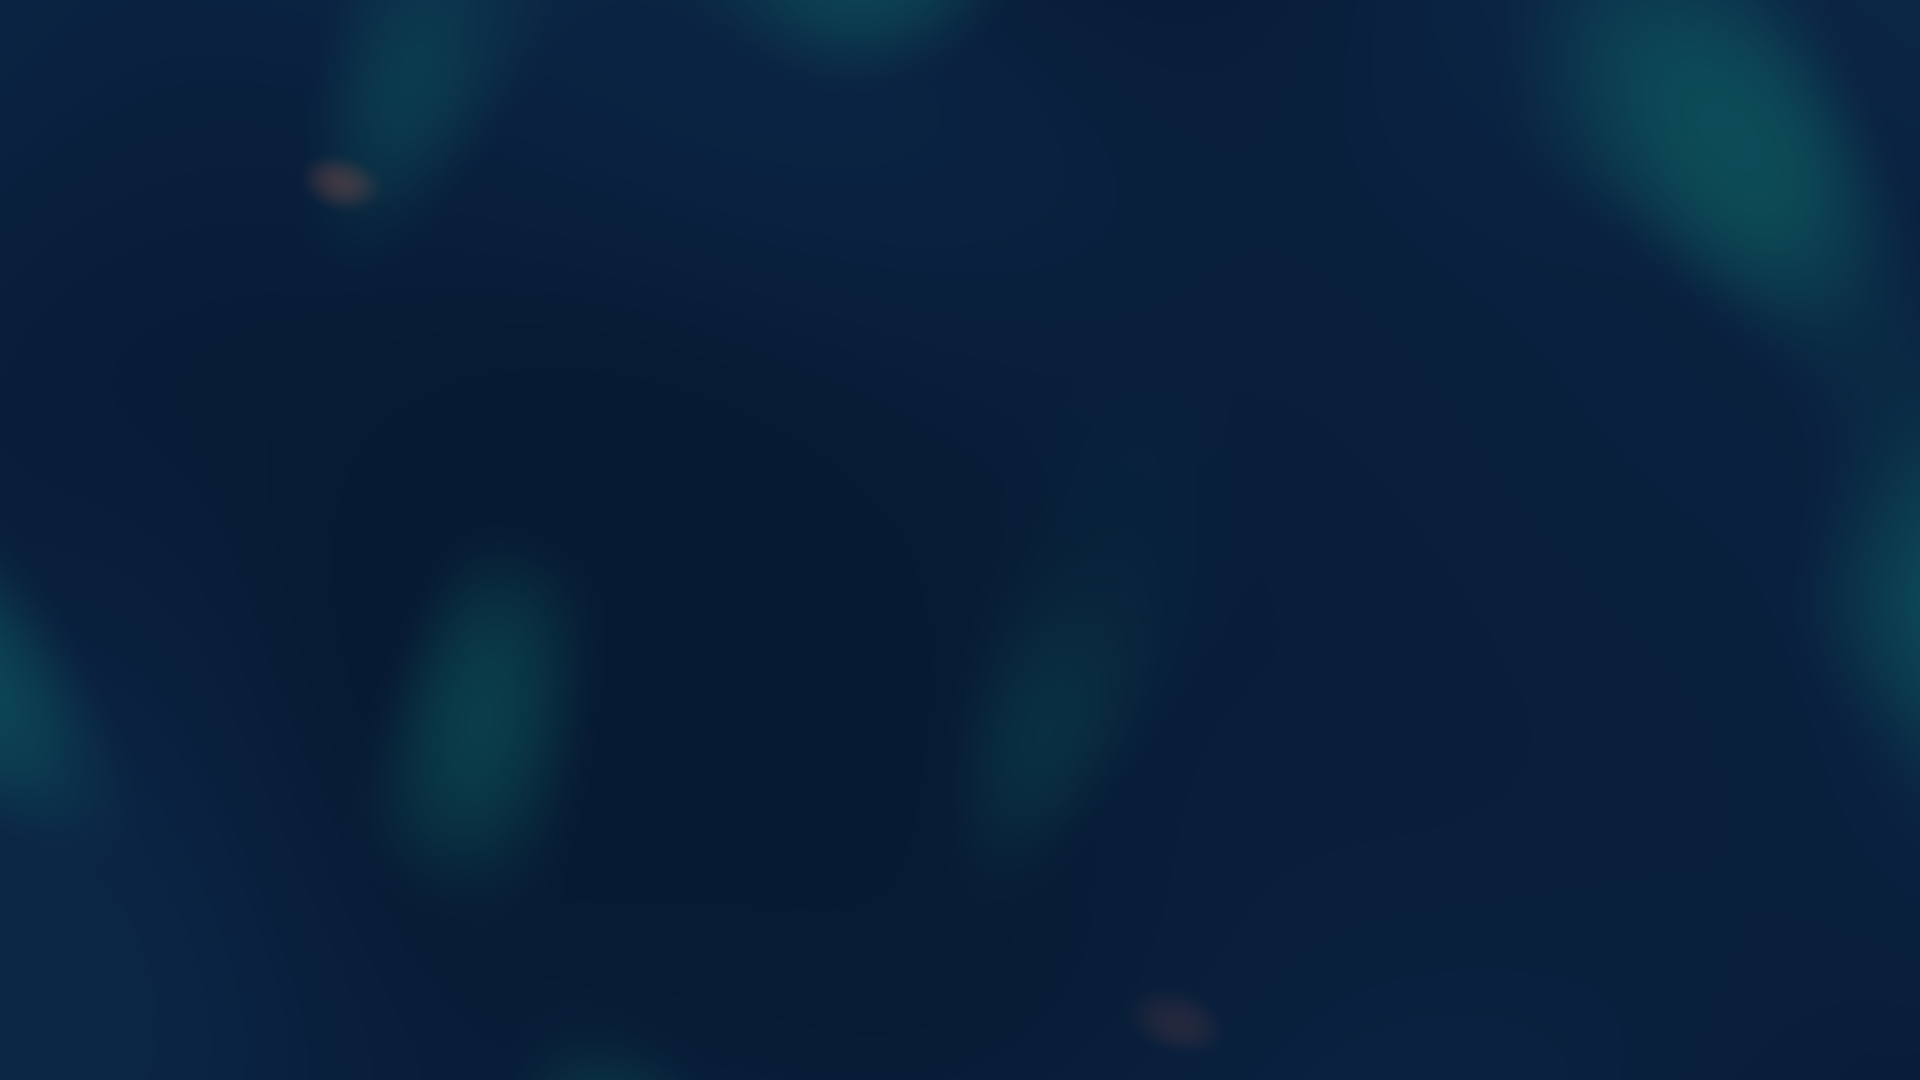
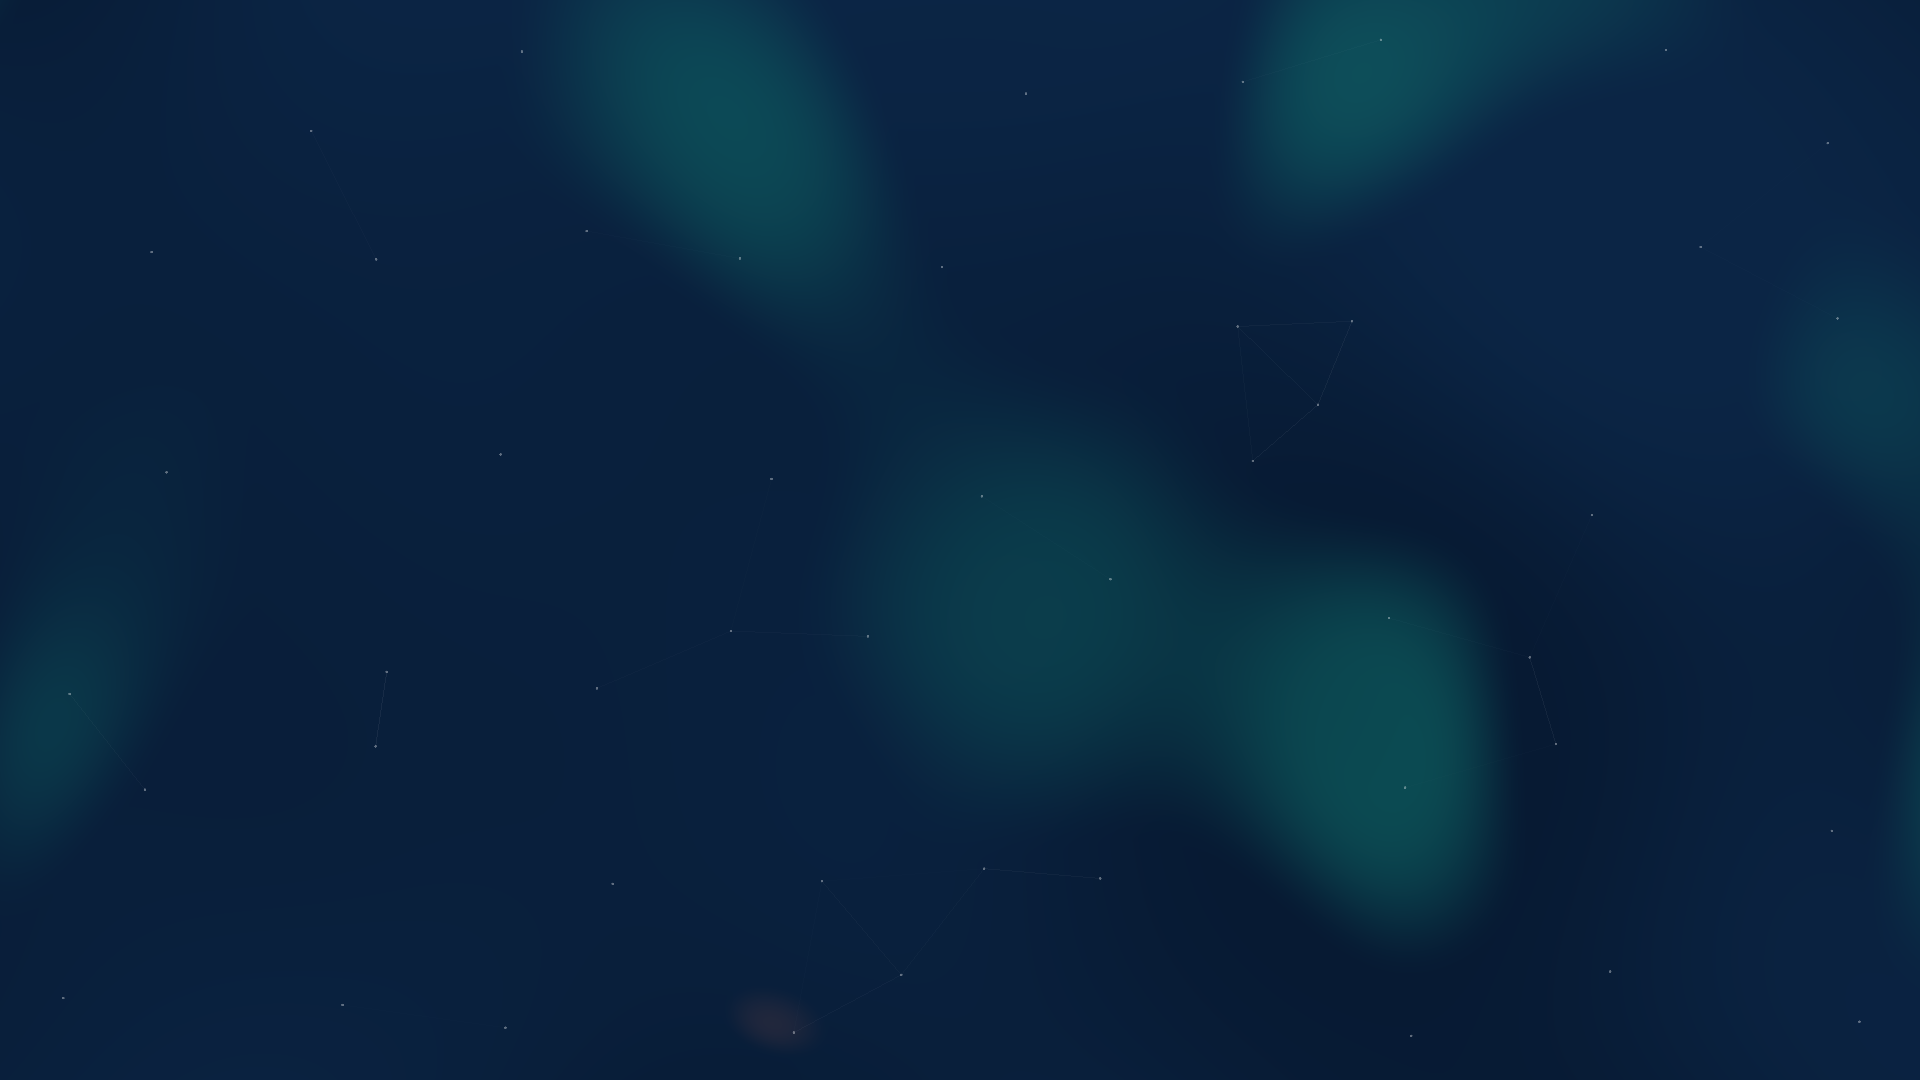
feat(02-02): render node network in heroScene and verify with harness
- shaders.ts: add node point/line vertex+fragment shaders (soft round
  dots, CPU-computed per-vertex alpha, on-brand low-opacity color)
- heroScene.ts: create lines+points ogl Meshes driven by nodeNetwork,
  recreate the node set on breakpoint-crossing resizes, add the
  optional `layers` field (additive, dev-harness-only per T-02-07)
- hero-harness.mjs: add --layers and --diff-against for a subtlety
  check (nodes visible but <5% of the frame vs a gradient-only render)
- Desktop (1920x1080, diffPixels=595) and mobile (780x1688,
  diffPixels=929) both pass --check --diff-against; evidence PNGs
  updated to the full gradient+network render

diff --git a/src/components/hero/heroScene.ts b/src/components/hero/heroScene.ts
@@ -1,13 +1,70 @@
-import { Renderer, Program, Mesh, Triangle, Transform } from "ogl";
-import { HERO_COLORS, HERO_CYCLE_SECONDS, hexToRgb01 } from "./heroConfig";
-import { gradientVertexShader, gradientFragmentShader } from "./shaders";
+import { Renderer, Program, Mesh, Triangle, Transform, Geometry } from "ogl";
+import {
+  HERO_COLORS,
+  HERO_CYCLE_SECONDS,
+  hexToRgb01,
+  HERO_NODE_COUNT_DESKTOP,
+  HERO_NODE_COUNT_TABLET,
+  HERO_NODE_COUNT_MOBILE,
+  HERO_TABLET_BREAKPOINT_PX,
+  HERO_NARROW_BREAKPOINT_PX,
+  HERO_LINK_DISTANCE_PX,
+  HERO_POINTER_RADIUS_PX,
+  HERO_ATTRACTION,
+  HERO_EASE_RATE,
+  HERO_DRIFT_AMPLITUDE,
+  HERO_NODE_ALPHA,
+  HERO_LINE_ALPHA,
+  HERO_LINE_ALPHA_HIGHLIGHT,
+  HERO_POINT_SIZE_PX,
+} from "./heroConfig";
+import {
+  gradientVertexShader,
+  gradientFragmentShader,
+  nodePointVertexShader,
+  nodePointFragmentShader,
+  nodeLineVertexShader,
+  nodeLineFragmentShader,
+} from "./shaders";
+import {
+  createNodes,
+  stepNodes,
+  buildNetworkBuffers,
+  allocateBuffers,
+  nodeCountForWidth,
+  type HeroNode,
+  type NetworkParams,
+} from "./nodeNetwork";
 
 // Public contract consumed unchanged by 02-02 (node network) and 02-03
 // (React lifecycle hook). Do not change these shapes without updating both.
+// `layers` is the one additive, optional field: only the dev harness passes
+// "gradient" to render the gradient mesh alone for the diff-against check;
+// production callers (02-03) never set it (threat T-02-07).
 export type HeroSceneOptions = {
   dpr: number;
   seed: number;
   preserveDrawingBuffer?: boolean;
+  layers?: "all" | "gradient";
+};
+
+const NODE_COUNT_PARAMS = {
+  tabletBreakpointPx: HERO_TABLET_BREAKPOINT_PX,
+  narrowBreakpointPx: HERO_NARROW_BREAKPOINT_PX,
+  desktop: HERO_NODE_COUNT_DESKTOP,
+  tablet: HERO_NODE_COUNT_TABLET,
+  mobile: HERO_NODE_COUNT_MOBILE,
+};
+
+const NETWORK_PARAMS: NetworkParams = {
+  driftAmplitude: HERO_DRIFT_AMPLITUDE,
+  attraction: HERO_ATTRACTION,
+  pointerRadiusPx: HERO_POINTER_RADIUS_PX,
+  easeRate: HERO_EASE_RATE,
+  linkDistancePx: HERO_LINK_DISTANCE_PX,
+  nodeAlpha: HERO_NODE_ALPHA,
+  lineAlpha: HERO_LINE_ALPHA,
+  lineAlphaHighlight: HERO_LINE_ALPHA_HIGHLIGHT,
 };
 
 export type HeroScene = {
@@ -63,11 +120,79 @@ export function createHeroScene(options: HeroSceneOptions): HeroScene {
   mesh.setParent(scene);
 
   // Stored for resize/pointer math; the gradient itself ignores the
-  // pointer (D-04 interaction lives on the node layer added in 02-02).
+  // pointer (D-04 interaction lives on the node layer below).
   let width = 0;
   let height = 0;
   let pointer: { x: number; y: number } | null = null;
   let contextLost = false;
+
+  // Node network layer (D-03/D-04). `layers: "gradient"` (dev harness only,
+  // T-02-07) skips all of this so the harness can render a gradient-only
+  // frame for the --diff-against subtlety check.
+  const layers = options.layers ?? "all";
+  let nodes: HeroNode[] = [];
+  let currentNodeCount = -1;
+  let networkBuffers: ReturnType<typeof allocateBuffers> | null = null;
+  let pointGeometry: Geometry | null = null;
+  let lineGeometry: Geometry | null = null;
+
+  if (layers !== "gradient") {
+    // Allocate once for the worst case (desktop node count); resize() only
+    // ever recreates the `nodes` array, never the GPU buffers.
+    networkBuffers = allocateBuffers(HERO_NODE_COUNT_DESKTOP);
+
+    pointGeometry = new Geometry(gl, {
+      position: { size: 2, data: networkBuffers.points, usage: gl.DYNAMIC_DRAW },
+      alpha: { size: 1, data: networkBuffers.pointAlpha, usage: gl.DYNAMIC_DRAW },
+    });
+    lineGeometry = new Geometry(gl, {
+      position: { size: 2, data: networkBuffers.lines, usage: gl.DYNAMIC_DRAW },
+      alpha: { size: 1, data: networkBuffers.lineAlpha, usage: gl.DYNAMIC_DRAW },
+    });
+
+    const onBrandColor = hexToRgb01(HERO_COLORS.onBrand);
+
+    const pointProgram = new Program(gl, {
+      vertex: nodePointVertexShader,
+      fragment: nodePointFragmentShader,
+      transparent: true,
+      depthTest: false,
+      depthWrite: false,
+      uniforms: {
+        uPointSize: { value: HERO_POINT_SIZE_PX * renderer.dpr },
+        uColor: { value: onBrandColor },
+      },
+    });
+    const lineProgram = new Program(gl, {
+      vertex: nodeLineVertexShader,
+      fragment: nodeLineFragmentShader,
+      transparent: true,
+      depthTest: false,
+      depthWrite: false,
+      uniforms: {
+        uColor: { value: onBrandColor },
+      },
+    });
+
+    // Draw order (D-03): gradient (renderOrder 0, opaque group) -> lines
+    // (renderOrder 1) -> points (renderOrder 2), both transparent+no-depth
+    // so they land in ogl's "ui" render group, always after the opaque
+    // gradient regardless of renderOrder value.
+    const linesMesh = new Mesh(gl, {
+      geometry: lineGeometry,
+      program: lineProgram,
+      mode: gl.LINES,
+      renderOrder: 1,
+    });
+    const pointsMesh = new Mesh(gl, {
+      geometry: pointGeometry,
+      program: pointProgram,
+      mode: gl.POINTS,
+      renderOrder: 2,
+    });
+    linesMesh.setParent(scene);
+    pointsMesh.setParent(scene);
+  }
 
   function resize(widthCssPx: number, heightCssPx: number): void {
     width = widthCssPx;
@@ -75,15 +200,46 @@ export function createHeroScene(options: HeroSceneOptions): HeroScene {
     renderer.setSize(width, height);
     applyCanvasBoxStyle(canvas);
     program.uniforms.uResolution.value = [width * renderer.dpr, height * renderer.dpr];
+
+    if (layers !== "gradient") {
+      const count = nodeCountForWidth(width, NODE_COUNT_PARAMS);
+      if (count !== currentNodeCount) {
+        nodes = createNodes(count, options.seed, NETWORK_PARAMS);
+        currentNodeCount = count;
+      }
+    }
   }
 
   function setPointer(xCssPx: number | null, yCssPx: number | null): void {
     pointer = xCssPx === null || yCssPx === null ? null : { x: xCssPx, y: yCssPx };
   }
 
-  function render(timeSeconds: number, _deltaSeconds: number): void {
+  function render(timeSeconds: number, deltaSeconds: number): void {
     if (contextLost) return;
     program.uniforms.uTime.value = timeSeconds;
+
+    if (layers !== "gradient" && networkBuffers && pointGeometry && lineGeometry) {
+      const pointerNorm =
+        pointer && width > 0 && height > 0
+          ? { x: pointer.x / width, y: pointer.y / height }
+          : null;
+      const viewport = { width, height };
+      stepNodes(nodes, timeSeconds, deltaSeconds, pointerNorm, viewport, NETWORK_PARAMS);
+      const { pointCount, lineVertexCount } = buildNetworkBuffers(
+        nodes,
+        viewport,
+        pointerNorm,
+        NETWORK_PARAMS,
+        networkBuffers,
+      );
+      pointGeometry.attributes.position.needsUpdate = true;
+      pointGeometry.attributes.alpha.needsUpdate = true;
+      lineGeometry.attributes.position.needsUpdate = true;
+      lineGeometry.attributes.alpha.needsUpdate = true;
+      pointGeometry.setDrawRange(0, pointCount);
+      lineGeometry.setDrawRange(0, lineVertexCount);
+    }
+
     renderer.render({ scene });
   }
 

diff --git a/src/components/hero/shaders.ts b/src/components/hero/shaders.ts
@@ -167,3 +167,70 @@ void main() {
   gl_FragColor = vec4(color, 1.0);
 }
 `;
+
+// Node-network shaders (D-03/D-04): subtle on-brand points with soft round
+// dots, and faint connecting lines. Alpha per-vertex is computed on the CPU
+// in nodeNetwork.ts (buildNetworkBuffers) — these shaders only interpolate
+// and apply it; no proximity math happens on the GPU (RESEARCH.md Open
+// Question 2, resolved to CPU-side).
+
+export const nodePointVertexShader = /* glsl */ `
+attribute vec2 position;
+attribute float alpha;
+varying float vAlpha;
+
+uniform float uPointSize;
+
+void main() {
+  vAlpha = alpha;
+  gl_PointSize = uPointSize;
+  gl_Position = vec4(position, 0.0, 1.0);
+}
+`;
+
+export const nodePointFragmentShader = /* glsl */ `
+#ifdef GL_FRAGMENT_PRECISION_HIGH
+precision highp float;
+#else
+precision mediump float;
+#endif
+
+varying float vAlpha;
+
+uniform vec3 uColor;
+
+void main() {
+  vec2 centered = gl_PointCoord - vec2(0.5);
+  float dist = length(centered);
+  if (dist > 0.5) discard;
+  float edge = 1.0 - smoothstep(0.35, 0.5, dist);
+  gl_FragColor = vec4(uColor, vAlpha * edge);
+}
+`;
+
+export const nodeLineVertexShader = /* glsl */ `
+attribute vec2 position;
+attribute float alpha;
+varying float vAlpha;
+
+void main() {
+  vAlpha = alpha;
+  gl_Position = vec4(position, 0.0, 1.0);
+}
+`;
+
+export const nodeLineFragmentShader = /* glsl */ `
+#ifdef GL_FRAGMENT_PRECISION_HIGH
+precision highp float;
+#else
+precision mediump float;
+#endif
+
+varying float vAlpha;
+
+uniform vec3 uColor;
+
+void main() {
+  gl_FragColor = vec4(uColor, vAlpha);
+}
+`;
